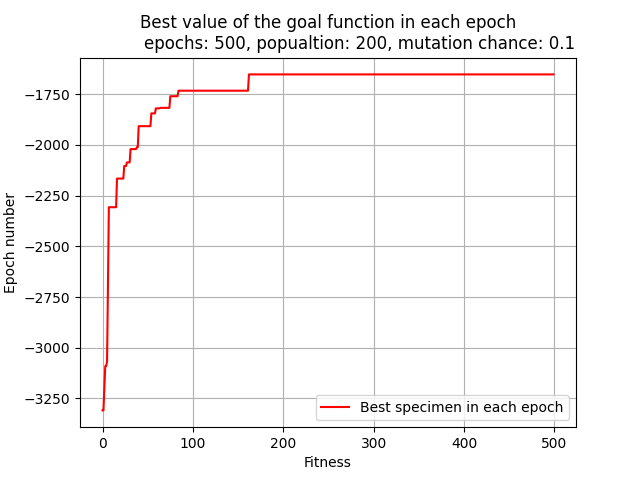
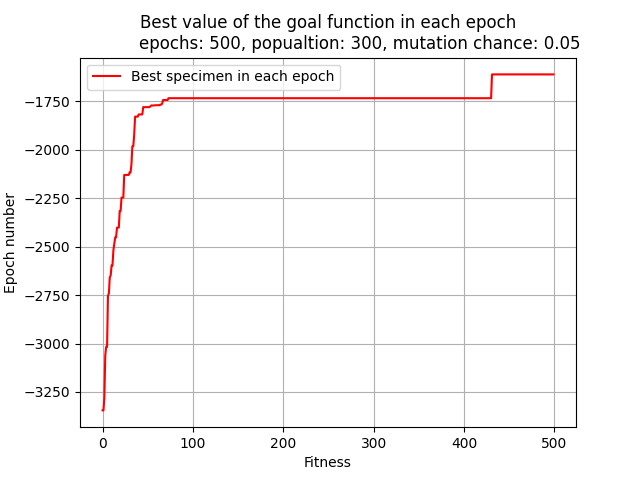
added remaining files from lab 2

diff --git a/lab1/src/graph_maker.py b/lab1/src/graph_maker.py
@@ -149,12 +149,11 @@ def random_tests_3d():
 
 
 if __name__ == "__main__":
-    random_x = random.uniform(-4, 4)
-    random_y = random.uniform(-4, 4)
-    x0 = [random_x, random_y]
-    start_point = x0
-    beta = 3
-    epsilon = 0.1
+    random_x = random.uniform(-2, 2)
+    random_y = random.uniform(-2, 2)
+    x0 = [3.3, -1.7]
+    beta = 1
+    epsilon = 0.00001
     solver = MinSolver(beta, epsilon)
     # graph_path_2d(Problem(funct1, gradient1), solver, x0)
     graph_path_3d(Problem(funct2, gradient2), solver, x0)

diff --git a/Algorytm_ewolucyjny/readme.md b/Algorytm_ewolucyjny/readme.md
@@ -8,5 +8,5 @@ sys (for passing arguments from the command line)
 
 instrukcja uruchomienia:
 należy pobrać wszystkie potrzebne zależności (matplotlib i numpy, reszta jest standardowo jeśli dobrze pamiętam)
-uruchomić `python main.py [ilość epok] [wielkość populacji] [prawdopodobieństwo mutacji w zakresie 0-1]`
+uruchomić `python main.py [ilość epok] [wielkość populacji] [prawdopodobieństwo mutacji genu w zakresie 0-1 jako wartość ułamkowa]`
 program można uruchomić z 1, 2 lub 3 argumentami. Pozostałe zostaną ustawione na domyślne wartości

diff --git a/Algorytm_ewolucyjny/analiza_problemu.md b/Algorytm_ewolucyjny/analiza_problemu.md
@@ -1,4 +1,4 @@
 Potrzebuję algorytmu który znajdzie najkrótszą drogę między punktami, odwiedzi każdy dokładnie raz i następnie wróci do początkowego
-możliwe definicje osobników:
+osobnik:
 - numerujemy każde miasto i osobnikiem jest lista kolejno odwiedzonych miast (int[]), będąca permutacją liczb określających nr miasta, z dodanym pierwszym miastem na końcu
-- 
+- podczas mutacji zamieniamy miasta miejscami, powiedzmy lecąc przez połowę listy albo całą opisującej drogę i losowanie czy dane miasto powinno być zamienione czy nie.
